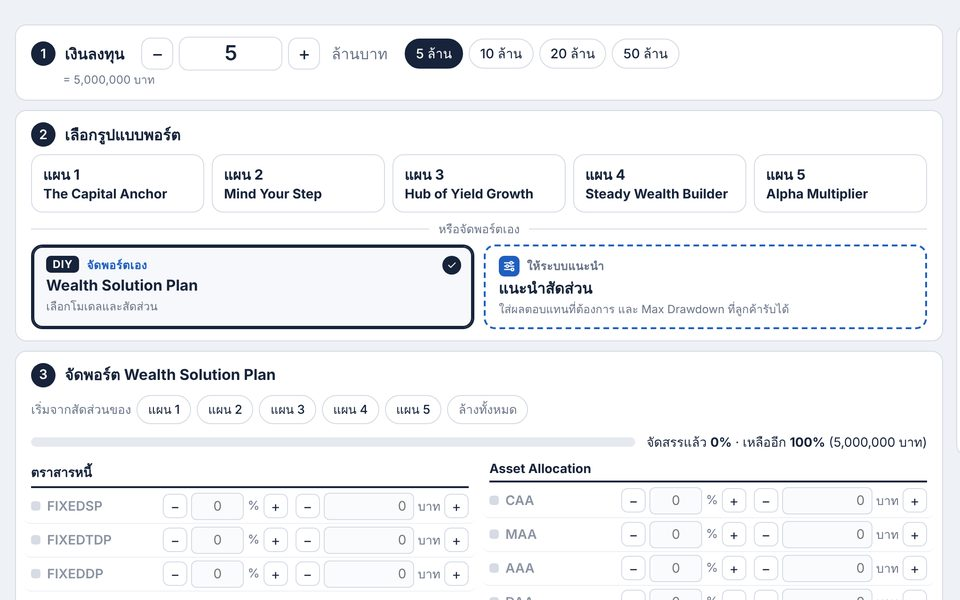
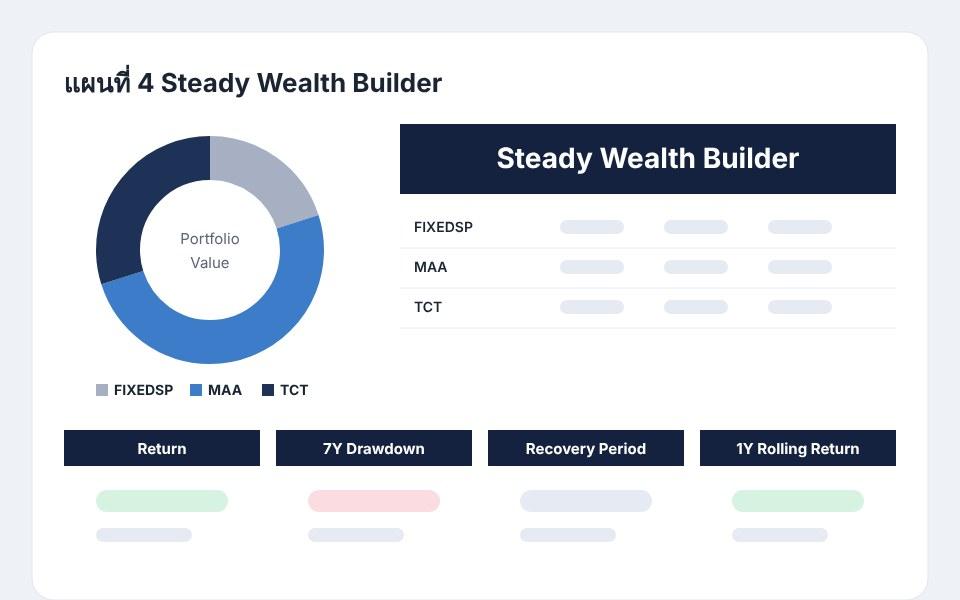
Wealth Solution Plan: แก้อัปโหลดในหน้าแล้วไม่คำนวณใหม่ + ภาพตัวอย่างเป็นหน้าผลลัพธ์ (ภาพประกอบ)
Claude-Session: https://claude.ai/code/session_014QdRDTLWoaxmUm56jEDhHH

diff --git a/atf/wealthplan/index.html b/atf/wealthplan/index.html
@@ -780,7 +780,8 @@ async function handleFiles(files){
     try{
       const text = await f.text();
       DATA = {csv: WP.parseModelCSV(text), csvName: f.name, savedAt: new Date().toISOString()};
-      save(); UTFIT_ATF.set(text, f.name);   // ใช้ร่วมกับเครื่องมืออื่นในหมวด Auto Top Funds prepare(); setPeriod(state.period || 'all'); state.view = 'input';
+      save(); prepare(); setPeriod(state.period || 'all'); state.view = 'input';
+      UTFIT_ATF.set(text, f.name);   // ใช้ร่วมกับเครื่องมืออื่นในหมวด Auto Top Funds
     }catch(e){ err = e.message; }
   }
   render(err);
